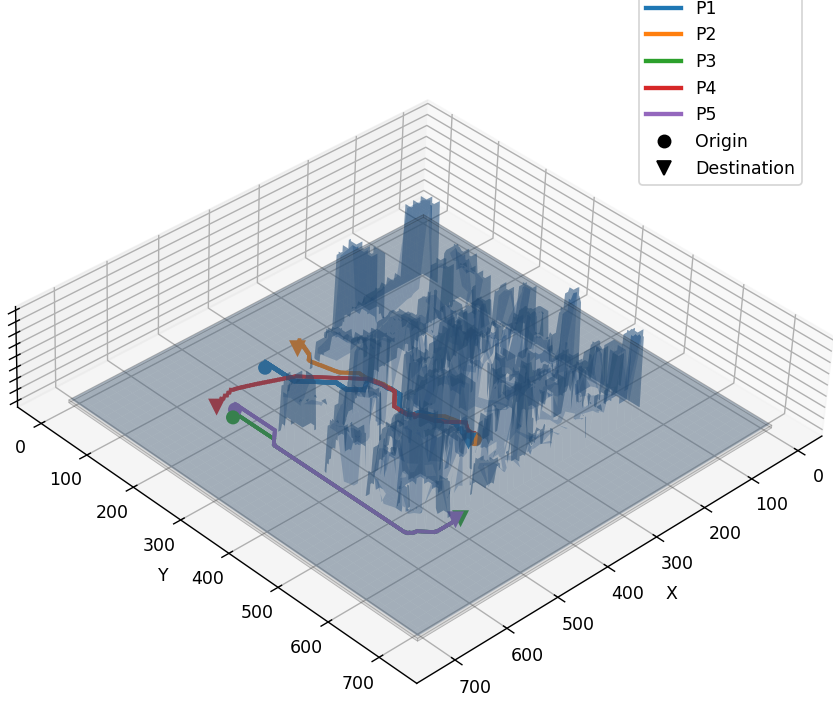
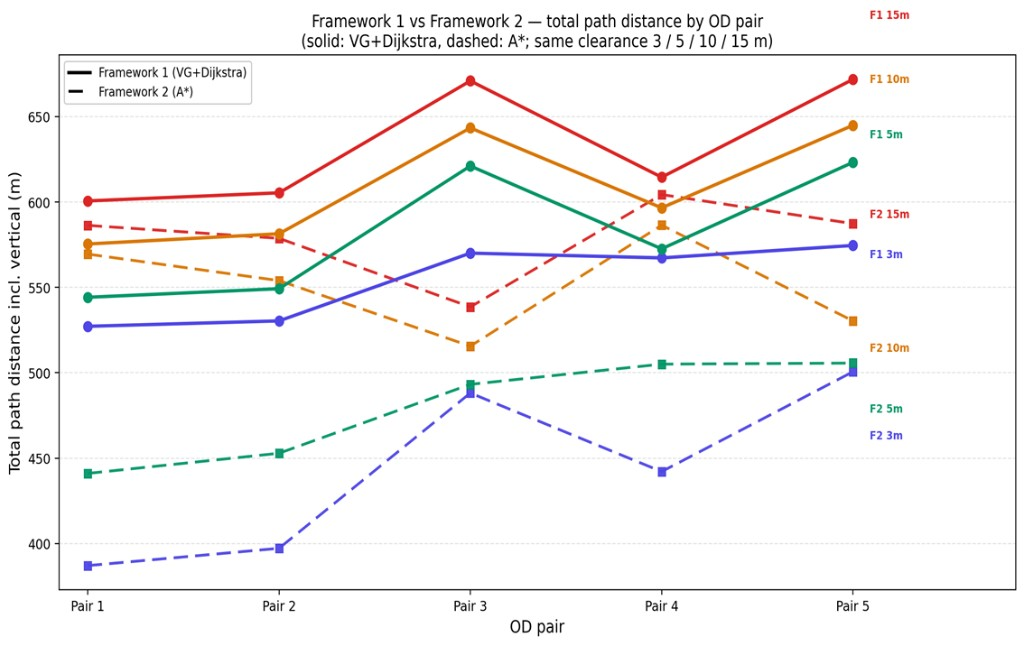
Refine project descriptions and enhance visual elements in the 3D Urban Path Planning project. Update alt text for images, improve CSS styles for better readability, and clarify the sensitivity analysis presentation in the Projects/3DRoutePlanner section.

diff --git a/Projects/3DRoutePlanner/index.html b/Projects/3DRoutePlanner/index.html
@@ -40,18 +40,10 @@
 
 		<section class="rp-hero" id="top">
 			<div class="rp-hero-inner">
-				<p class="rp-hero-product">Graduate capstone · Cornell</p>
 				<h1>Comparative Frameworks for 3D Urban Path Planning</h1>
-				<p class="rp-hero-subtitle">3D geometry creation · Algorithm selection · Sensitivity analysis</p>
-				<ul class="rp-roadmap" aria-label="Presentation structure">
-					<li>Goal</li>
-					<li class="is-current">Framework 1</li>
-					<li class="is-current">Framework 2</li>
-					<li class="is-current">Comparative study</li>
-				</ul>
 				<div class="rp-hero-column">
-					<p class="rp-hero-lead">Urban airspace is becoming contested as autonomous delivery and UAM systems grow. This capstone compares two 3D path planning pipelines on a dense 73 building demo city with five origin destination pairs and four ground clearance levels (3, 5, 10, 15 m).</p>
-					<p class="rp-hero-lead"><strong>Goal:</strong> Compare visibility graph + Dijkstra and buffer field 3D A*, and recommend VG + Dijkstra for Hong Kong style city scale UAM versus buffer + A* for shorter, grid refined routes.</p>
+					<p class="rp-hero-lead"><strong>Why:</strong> Cities are densifying and drone delivery / UAM traffic is growing, but urban airspace is hard to plan in 3D. Tall buildings and regulatory no fly zones mean 2D planners are not enough; operators need paths that are safe, repeatable, and fast to compute at scale. There is no single obvious algorithm, so the tradeoff between path quality, waypoint count, and runtime has to be made explicit.</p>
+					<p class="rp-hero-lead"><strong>What we did:</strong> With Zhaoyao Bao, we implemented and compared two pipelines on a 73-building demo map using five origin–destination pairs and ground clearance heights of 3, 5, 10, and 15 m. <strong>Framework 1</strong> uses cuboid NFZs, a visibility graph, and Dijkstra; <strong>Framework 2</strong> uses a raster buffer field and 3D A*. <strong>Recommendation:</strong> VG + Dijkstra for city-scale dispatch and replanning; buffer + A* when shorter paths justify heavier grid search.</p>
 					<div class="rp-hero-meta">
 						<div class="rp-tag-row" aria-label="Skills demonstrated">
 							<span class="rp-tag">Python</span>
@@ -59,19 +51,17 @@
 							<span class="rp-tag">Sensitivity Analysis</span>
 							<span class="rp-tag">Trade Studies</span>
 						</div>
-						<p class="rp-tech-secondary">Python · scipy · visibility graph · Dijkstra · 3D A* · capstone with Zhaoyao Bao</p>
 					</div>
 					<div class="rp-hero-cta">
 						<div class="rp-hero-actions-secondary">
-							<a href="FinalPresentation.pptx" class="rp-btn rp-btn-github" download>Download presentation</a>
+							<a href="FinalPresentation.pptx" class="rp-btn rp-btn-github" download>Presentation</a>
 							<a href="../../index.html#two" class="rp-btn rp-btn-portfolio">Back to Portfolio</a>
 						</div>
 					</div>
 				</div>
 				<blockquote class="rp-sedemo rp-sedemo--hero" aria-label="Systems engineering demonstration">
-					<span class="rp-sedemo-label">Brief</span>
-					<p class="rp-sedemo-kicker">Systems engineering demonstration</p>
-					<p class="rp-sedemo-text">Structures an urban air mobility routing problem as comparable architectures, runs sensitivity analysis on no fly zone clearance, and recommends VG + Dijkstra for city scale operations versus buffer + A* when minimum distance justifies heavier compute.</p>
+					<span class="rp-sedemo-label">Systems engineering</span>
+					<p class="rp-sedemo-text">Comparable architectures, NFZ clearance sensitivity, and scale vs distance tradeoffs for urban air mobility.</p>
 				</blockquote>
 			</div>
 		</section>
@@ -241,8 +231,8 @@
 							<figure class="rp-pipeline-fig">
 								<div class="rp-demo-frame">
 									<div class="rp-demo-chrome" aria-hidden="true"><span></span><span></span><span></span><em>Building height H</em></div>
-									<div class="rp-pipeline-img-stage rp-pipeline-img-stage--crop-start">
-										<img src="images/f2-step1-height-buffer.png" alt="Building height grid H over the urban raster" loading="lazy" />
+									<div class="rp-pipeline-img-stage">
+										<img src="images/f2-step1-height-h.png" alt="Building height grid H over the urban raster" loading="lazy" />
 									</div>
 								</div>
 								<figcaption>Raster input (per cell height)</figcaption>
@@ -254,8 +244,8 @@
 							<figure class="rp-pipeline-fig">
 								<div class="rp-demo-frame">
 									<div class="rp-demo-chrome" aria-hidden="true"><span></span><span></span><span></span><em>Min safe altitude B</em></div>
-									<div class="rp-pipeline-img-stage rp-pipeline-img-stage--crop-end">
-										<img src="images/f2-step1-height-buffer.png" alt="Buffered minimum safe altitude field B" loading="lazy" />
+									<div class="rp-pipeline-img-stage">
+										<img src="images/f2-step1-buffer-b.png" alt="Buffered minimum safe altitude field B" loading="lazy" />
 									</div>
 								</div>
 								<figcaption>2.5D buffer spreads influence horizontally and raises floors</figcaption>
@@ -344,10 +334,10 @@
 				<div class="rp-subsection">
 					<h3>Sensitivity comparison</h3>
 					<div class="rp-demo-frame">
-						<div class="rp-demo-chrome" aria-hidden="true"><span></span><span></span><span></span><em>Distance vs clearance (5 OD pairs)</em></div>
-						<img src="images/comparison-sensitivity.png" alt="Sensitivity analysis comparing both frameworks across clearance levels" loading="lazy" />
+						<div class="rp-demo-chrome" aria-hidden="true"><span></span><span></span><span></span><em>Framework 1 vs Framework 2</em></div>
+						<img src="images/comparison-sensitivity.png" alt="Framework 1 vs Framework 2 total path distance by OD pair for clearance 3, 5, 10, and 15 m" loading="lazy" />
 					</div>
-					<p class="rp-caption">Both show longer paths as clearance grows (3 m → 15 m). Framework 2 is ~8–20% shorter on average at 3 m but with far higher search cost. Trends align; absolute metres differ because cuboid NFZ ≠ raster buffer B.</p>
+					<p class="rp-caption">Solid lines: VG + Dijkstra; dashed lines: buffered A*. Both show longer paths as clearance grows (3 m → 15 m). Framework 2 is ~8–20% shorter on average at 3 m but with far higher search cost.</p>
 				</div>
 
 				<div class="rp-subsection">

diff --git a/index.html b/index.html
@@ -213,7 +213,7 @@
 							<!-- 3D Urban Path Planning -->
 							<div class="project-item project-item--rich" data-category="system">
 								<h3>3D Urban Path Planning</h3>
-								<img src="images/3drouteplanner.png" alt="3D urban path planning: visibility graph Dijkstra route through no fly zones" loading="lazy">
+								<img src="images/3drouteplanner.png" alt="3D urban path planning route through building no fly zones in a dense city model" loading="lazy">
 								<div class="project-item-body">
 									<p class="project-desc">Graduate capstone comparing Visibility Graph + Dijkstra and Buffered 3D A* for dense city UAM routing with no fly zone sensitivity analysis.</p>
 									<p class="project-desc project-desc--systems"><strong>Systems Engineering Skill:</strong> Structures comparable routing architectures, runs clearance sensitivity studies, and recommends city scale vs local optimization tradeoffs for urban air mobility.</p>

diff --git a/Projects/3DRoutePlanner/assets/css/project.css b/Projects/3DRoutePlanner/assets/css/project.css
@@ -345,10 +345,11 @@ body.rp-page {
 }
 
 .rp-hero-lead {
-  font-size: 1.05rem;
-  color: rgba(255, 255, 255, 0.82);
-  margin-bottom: 1.25rem;
-  line-height: 1.75;
+  font-size: 1.12rem;
+  color: rgba(255, 255, 255, 0.88);
+  margin-bottom: 1.1rem;
+  line-height: 1.8;
+  max-width: 52rem;
   text-align: justify;
   text-justify: inter-word;
 }
